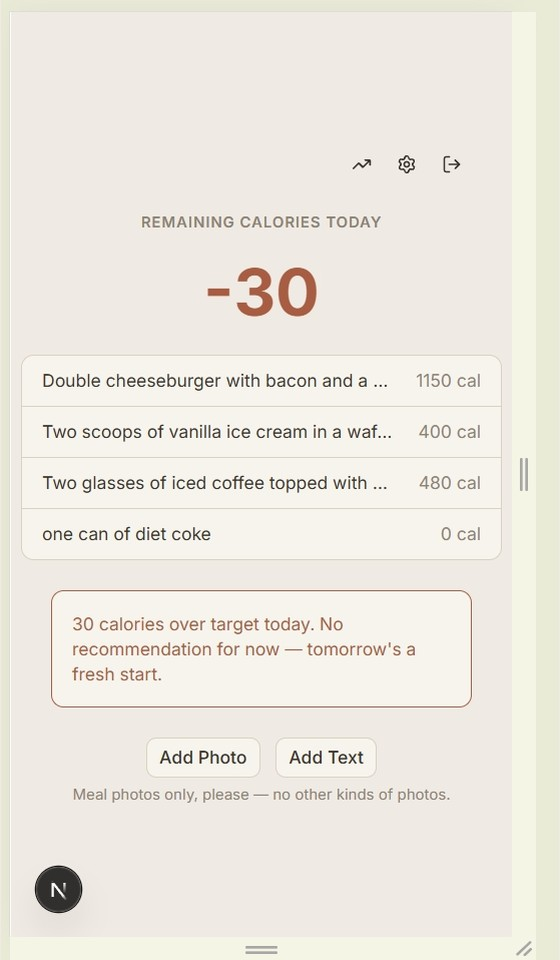
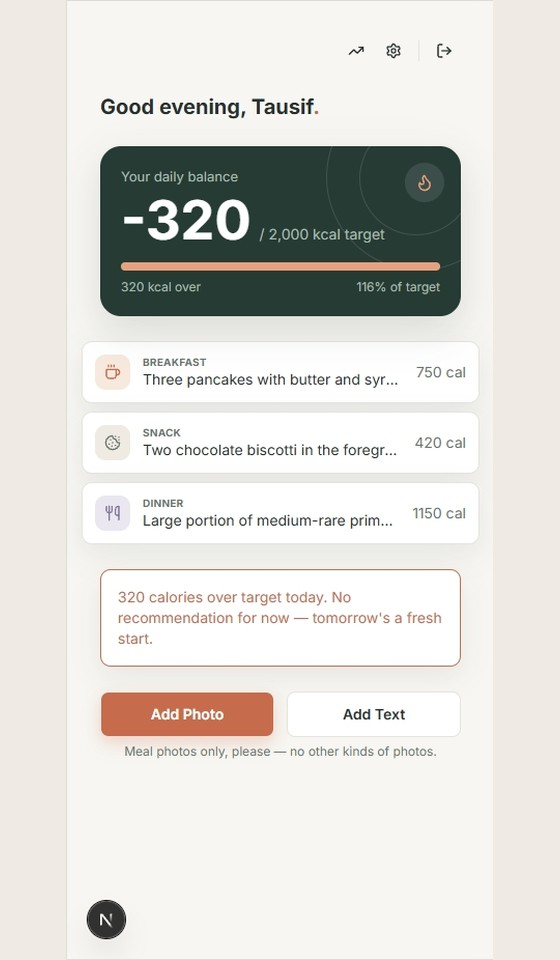
Updated readme

diff --git a/_bmad-output/implementation-artifacts/deferred-work.md b/_bmad-output/implementation-artifacts/deferred-work.md
@@ -146,8 +146,8 @@
   summary: RESOLVED for Account/Preferences (2026-09-27, spec-1-3-preferences-look-and-feel.md) -- Login and Register still show a soft shadow + 16px `rounded.card` radius in their own approved mockups (auth-refresh.html's `.auth-card`) but the code hasn't been updated. Preferences was fixed on direct user request; Login/Register are the remaining scope.
   evidence: Self-caught while investigating this story's own Blind Hunter findings, comparing every "card" surface in the app against DESIGN.md's Components list. The `rounded.card` radius token is now documented in DESIGN.md and applied to Preferences -- Login/Register need `rounded-card` too, but **not** a bare reuse of `shadow-soft` (review finding, spec-1-3-preferences-look-and-feel.md): `auth-refresh.html`'s own box-shadow opacity is 0.10, not `shadow-soft`'s 0.08 -- a distinct shadow value (or override) is needed there, see DESIGN.md's Page card entry.
 - source_spec: `_bmad-output/implementation-artifacts/spec-1-3-preferences-look-and-feel.md`
-  summary: All 7 of `README.md`'s screenshots (`docs/screenshots/*.jpg`) predate the entire Warm Editorial Refresh redesign -- they still show the original Muted Earth Editorial palette (warm greige background, clay buttons), not the current warm off-white/terracotta/soft-shadow look any live screen now has. Attempted to recapture just `03-account-preferences-page.jpg` to reflect this fix, but reverted it: swapping one screenshot to the new palette while its 6 siblings stay on the old one would make the README's screenshot section internally inconsistent, which is worse than leaving all 7 uniformly stale.
-  evidence: Review finding (Blind Hunter) plus direct visual confirmation -- `01-login-page.jpg` still shows the old `#EFEAE3`/clay palette and real mobile-browser autofill icon overlays, confirming the whole set was captured once, pre-redesign, and never touched since. A full recapture across all 7 screenshots is needed together, not a piecemeal per-page swap. Revisit as its own pass, or when the user asks for updated screenshots.
+  summary: RESOLVED (2026-09-27) -- user supplied a full set of 7 updated screenshots (`C:\Work\bmad\screenshots`), replacing all of `docs/screenshots/*.jpg` in one pass (all now reflect the Warm Editorial Refresh palette). `04-first-login-of-day.jpg` was replaced with `04-dashboard.jpg` (a plain Daily view shot, not the first-login-prompt state) -- README.md's caption/alt text and filename reference updated to match.
+  evidence: Previously flagged (Review finding, Blind Hunter) that all 7 screenshots predated the entire redesign and that a piecemeal per-page swap would be worse than leaving all 7 uniformly stale -- resolved properly now that the full set was recaptured together, exactly as this entry's own "revisit as its own pass" note anticipated.
 - source_spec: `_bmad-output/implementation-artifacts/spec-5-1-trend-bar-chart.md`
   summary: The trend bar chart's exact per-day figures are only available via mouse-hover (`title` attribute) or to screen readers (`aria-label`) -- a touch-screen user (this app's primary platform, NFR-1) has no way to read a specific bar's date/calorie/target figures at all, a strictly worse information state than the plain-text list it replaced for that input modality. Related: at real ~90-day scale, the single-letter weekday label repeats every ~7 bars with no visible full-date anchor anywhere.
   evidence: Review finding (Blind Hunter), real gap. The approved mockup (mockups/trends-refresh.html) explicitly left both "how ~90 days get windowed/scrolled" and "how exact per-day figures get shown" as open questions "for EXPERIENCE.md, not decided by this mockup" -- this story resolved the scrolling question but not the touch-accessible-figures one. A full fix (e.g. a tap-to-reveal detail panel, or periodic axis date labels) is a real feature addition beyond a oneshot's "smallest fix is simple" bar. Revisit next time this screen is touched, or if a user actually reports being unable to read a specific day's figures on a touch device.

diff --git a/README.md b/README.md
@@ -38,9 +38,9 @@ A solo-use, web-based prototype for tracking daily calorie intake. Log a meal by
 </td>
 <td width="50%">
 
-**First login of the day**
+**Dashboard**
 
-<img src="docs/screenshots/04-first-login-of-day.jpg" width="100%" alt="Daily view on first login of the day, with breakfast offer and meal recommendations" />
+<img src="docs/screenshots/04-dashboard.jpg" width="100%" alt="Daily view showing the remaining calorie budget, greeting, and today's logged meals" />
 
 </td>
 </tr>
@@ -49,7 +49,7 @@ A solo-use, web-based prototype for tracking daily calorie intake. Log a meal by
 
 **Log a meal via photo**
 
-<img src="docs/screenshots/05-log-meal-via-photo.jpg" width="100%" alt="Logging a meal via photo, showing the photo preview and estimated calories" />
+<img src="docs/screenshots/05-log-meal-via-photo.jpg" width="100%" alt="Logging a meal via photo, showing the photo preview, generated description, and estimated calories" />
 
 </td>
 <td width="50%">
@@ -65,7 +65,7 @@ A solo-use, web-based prototype for tracking daily calorie intake. Log a meal by
 
 **Historical trends**
 
-<img src="docs/screenshots/07-historical-trends.jpg" width="100%" alt="Historical trends page showing a day-by-day calorie history" />
+<img src="docs/screenshots/07-historical-trends.jpg" width="100%" alt="Historical trends page showing a bar-chart histogram of daily calorie history" />
 
 </td>
 <td width="50%"></td>
